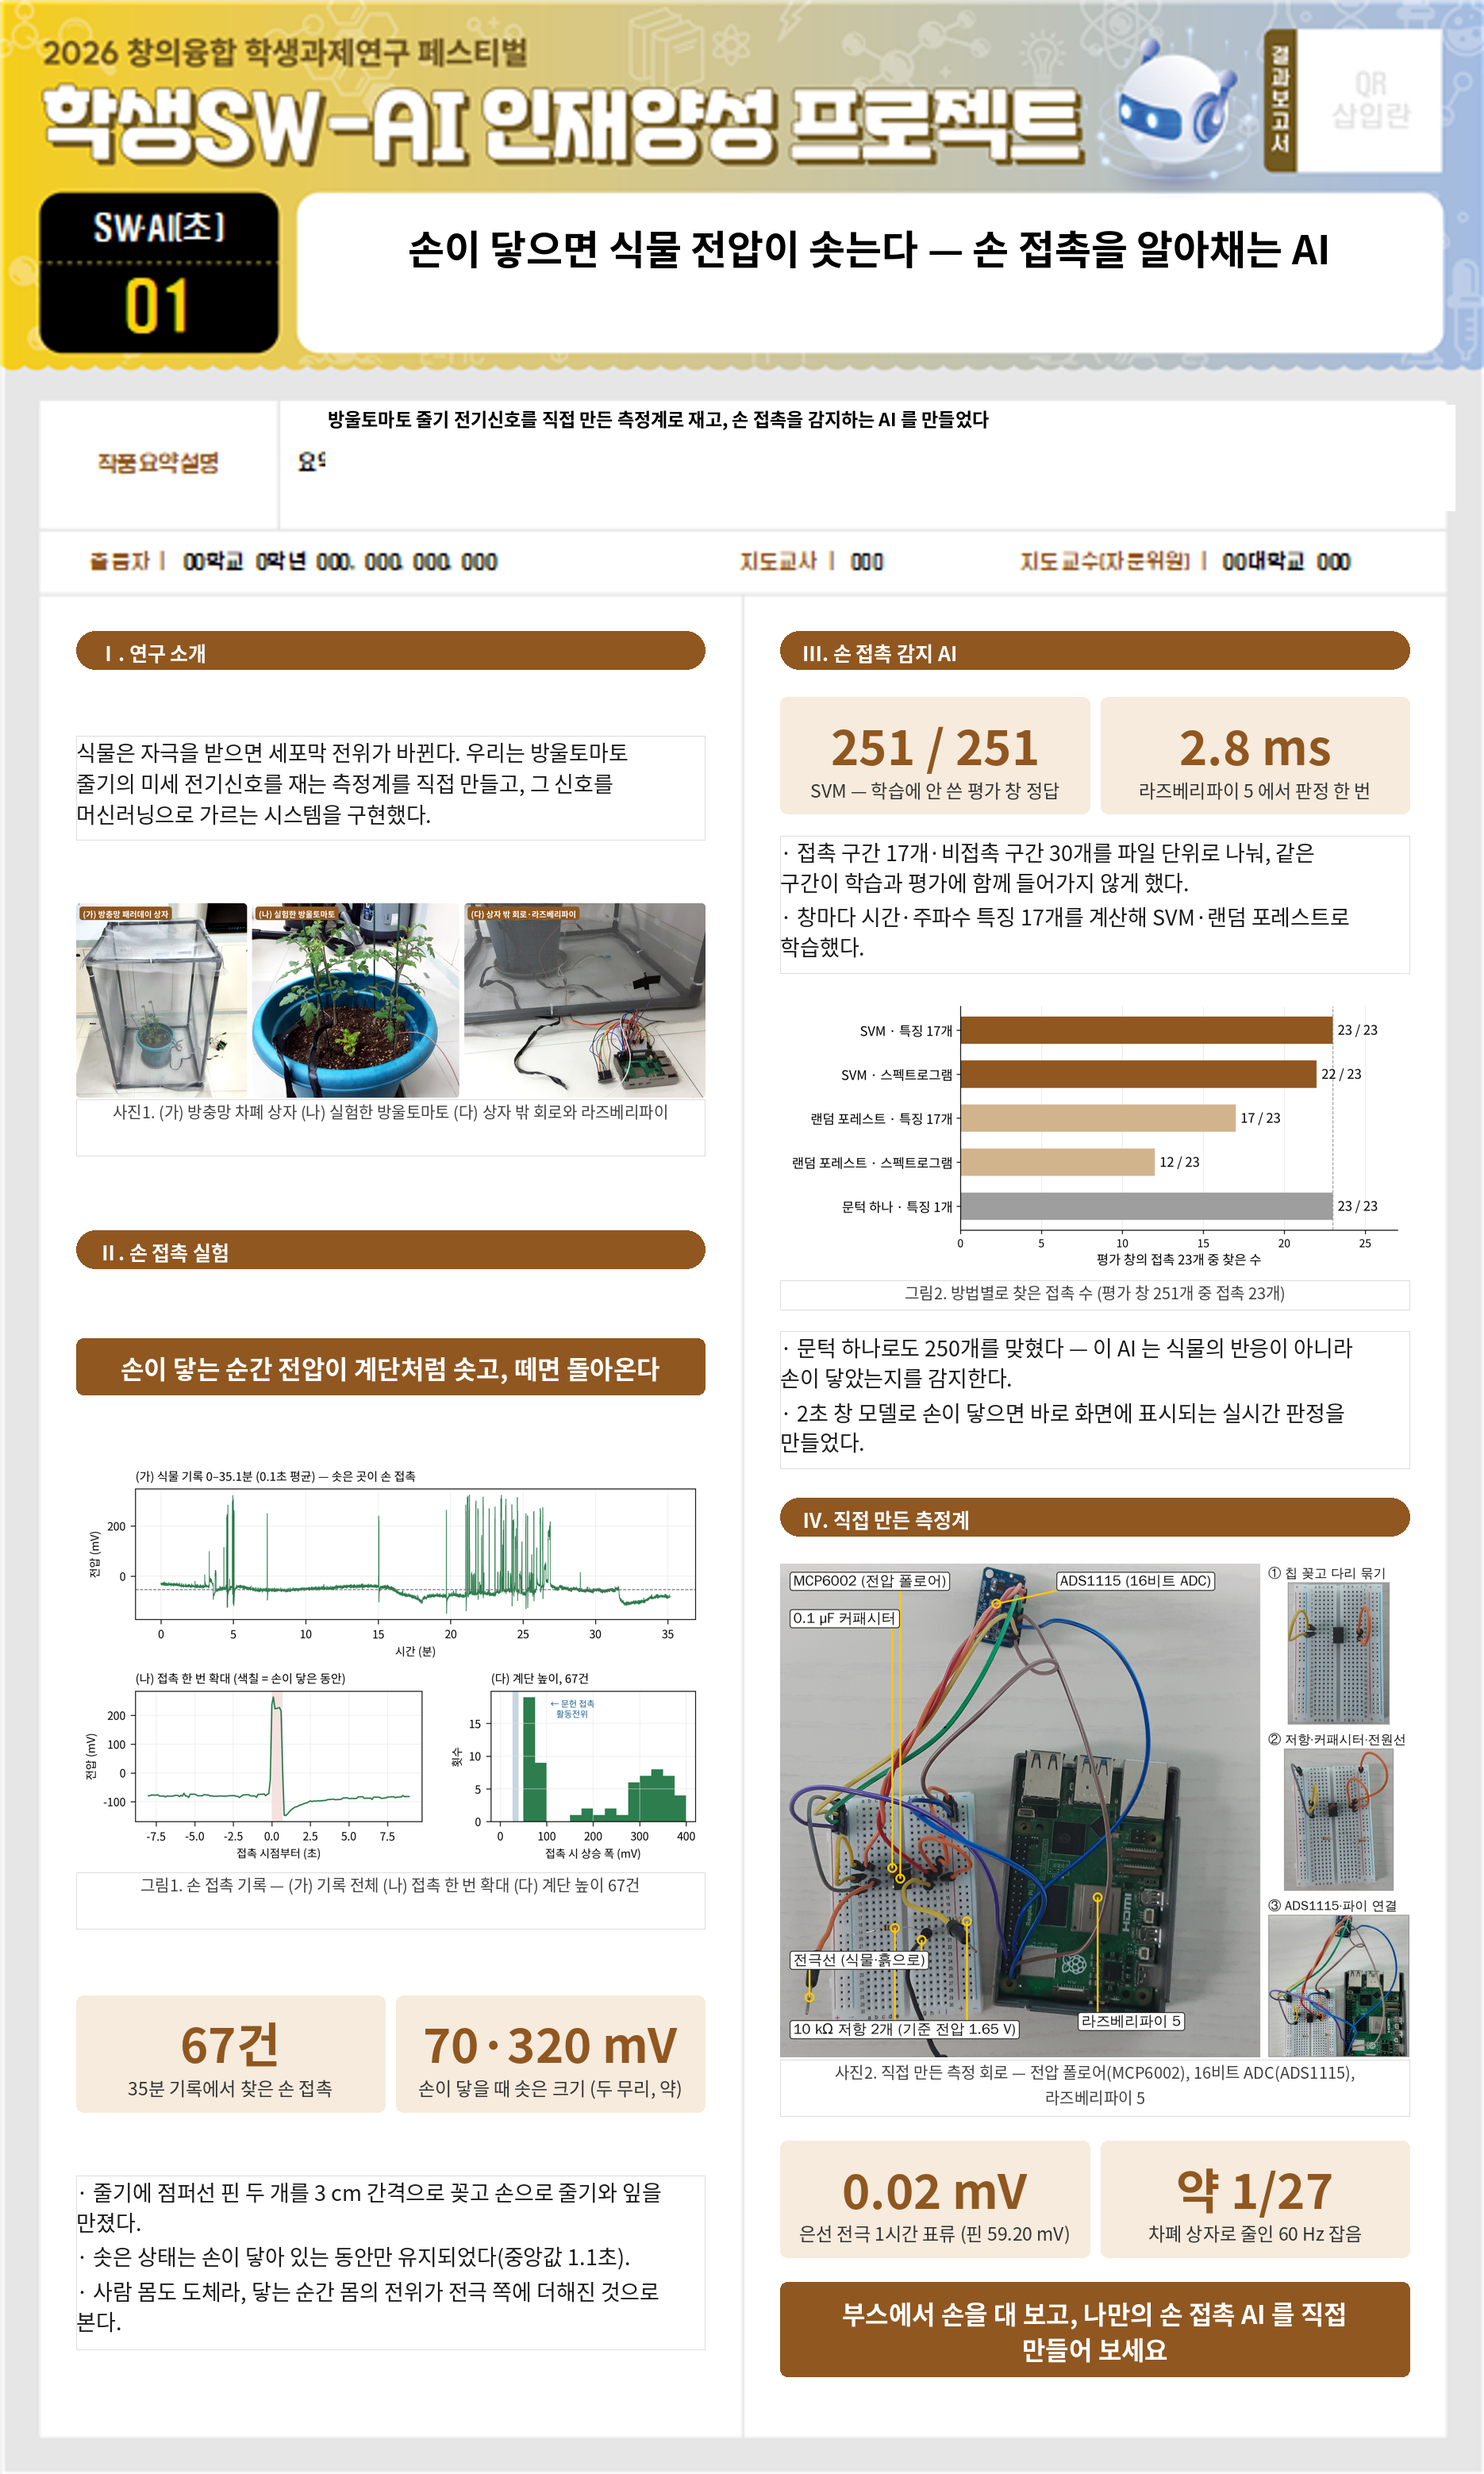
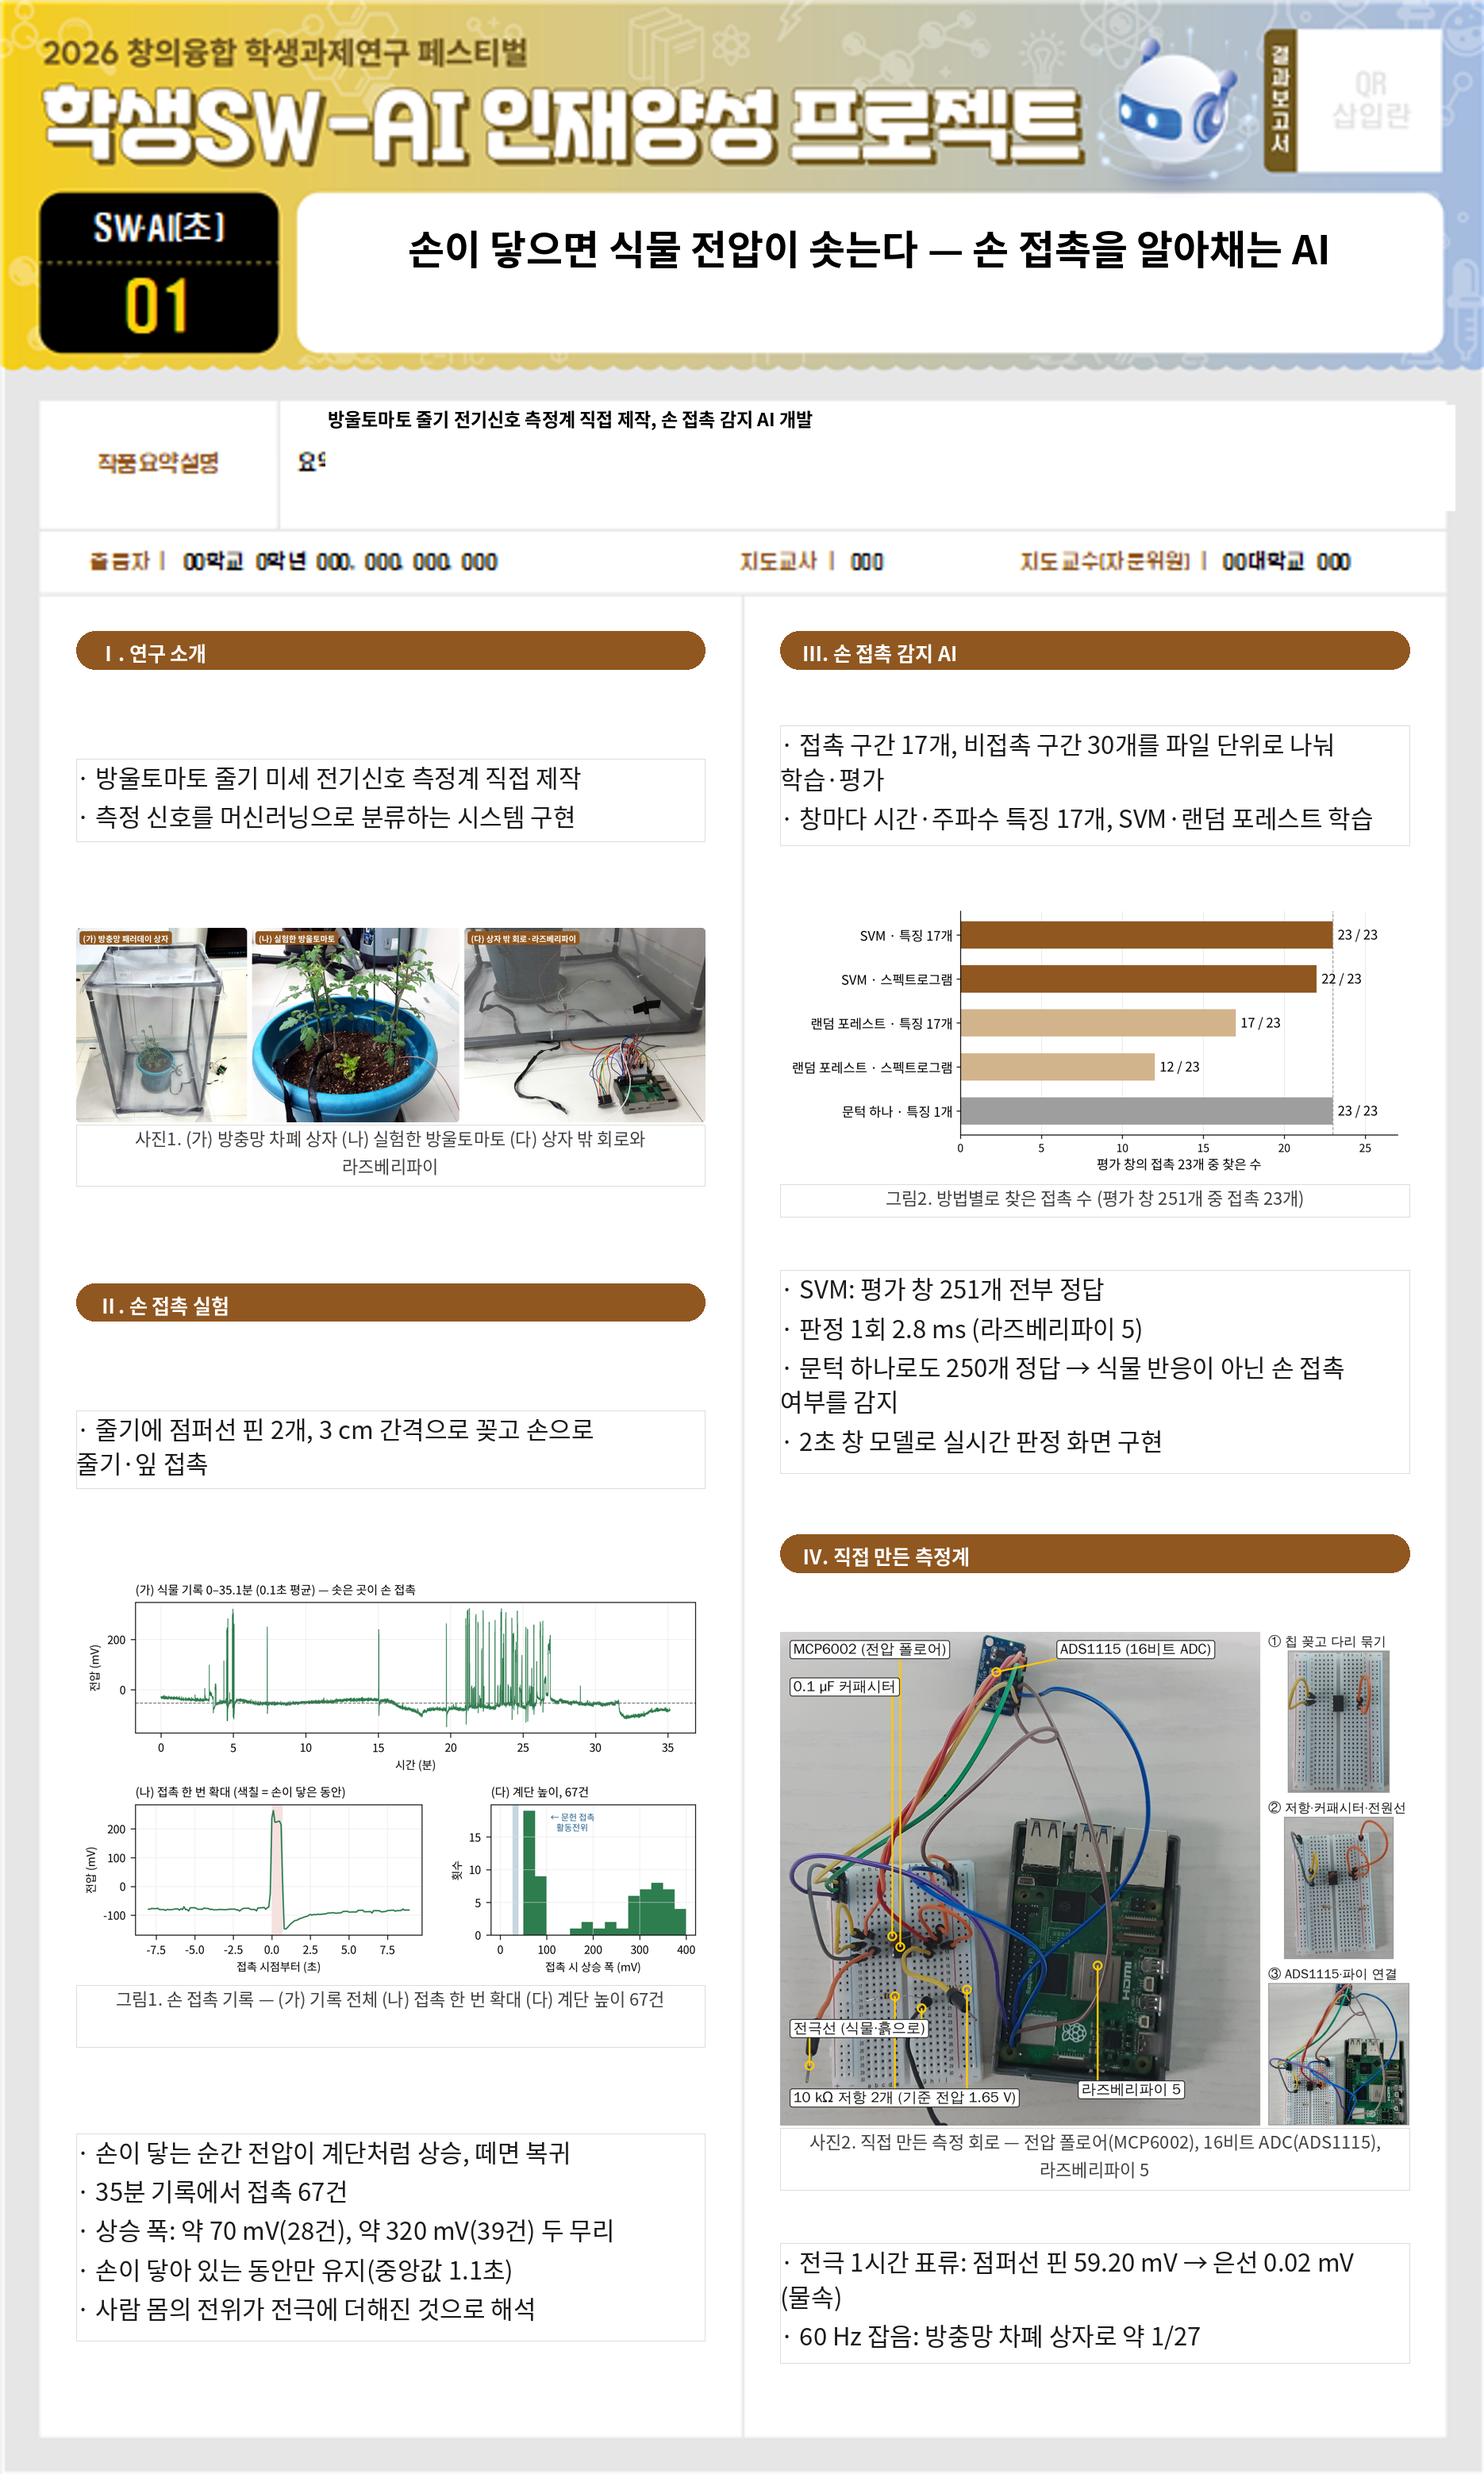
부스 포스터: 문장을 개조식으로, 숫자 상자·강조 상자 뺌(양식 절 머리띠만)
Claude-Session: https://claude.ai/code/session_01JhQkgfdzNkTpKPSBfVdw6o

diff --git a/report/booth_poster_build.py b/report/booth_poster_build.py
@@ -12,8 +12,8 @@ pb.DST = os.path.join(pb.REP, "GML_부스포스터.hwpx")
 pb.PREVIEW = os.path.join(pb.REP, "GML_부스포스터_미리보기.png")
 
 pb.STYLES.update({
-    "body":  (2700, "#1A1A1A", 0, False),
-    "cap":   (2000, "#404040", 0, False),
+    "body":  (3100, "#1A1A1A", 0, False),
+    "cap":   (2200, "#404040", 0, False),
     "title": (5000, "#000000", 2, False),
     "sum":   (2300, "#1A1A1A", 2, False),
     "kbig":  (6000, "#905720", 2, False),
@@ -23,36 +23,35 @@ pb.STYLES.update({
 pb.PARA["body"] = (19, 145, 0, 600)
 
 pb.TITLE = "손이 닿으면 식물 전압이 솟는다 — 손 접촉을 알아채는 AI"
-pb.SUMMARY = "방울토마토 줄기 전기신호를 직접 만든 측정계로 재고, 손 접촉을 감지하는 AI 를 만들었다"
+pb.SUMMARY = "방울토마토 줄기 전기신호 측정계 직접 제작, 손 접촉 감지 AI 개발"
 
 pb.LEFT = [
     ("bar", "Ⅰ. 연구 소개"),
-    ("p", "식물은 자극을 받으면 세포막 전위가 바뀐다. 우리는 방울토마토 줄기의 미세 전기신호를 재는 측정계를 직접 만들고, "
-          "그 신호를 머신러닝으로 가르는 시스템을 구현했다."),
+    ("li", "· 방울토마토 줄기 미세 전기신호 측정계 직접 제작"),
+    ("li", "· 측정 신호를 머신러닝으로 분류하는 시스템 구현"),
     ("fig", "PHOTO_POSTER_CAGE.jpg", 1.0, "사진1. (가) 방충망 차폐 상자 (나) 실험한 방울토마토 (다) 상자 밖 회로와 라즈베리파이"),
     ("bar", "Ⅱ. 손 접촉 실험"),
-    ("call", "손이 닿는 순간 전압이 계단처럼 솟고, 떼면 돌아온다"),
+    ("li", "· 줄기에 점퍼선 핀 2개, 3 cm 간격으로 꽂고 손으로 줄기·잎 접촉"),
     ("fig", "FIG_TOUCH.png", 1.0, "그림1. 손 접촉 기록 — (가) 기록 전체 (나) 접촉 한 번 확대 (다) 계단 높이 67건"),
-    ("keys", [("67건", "35분 기록에서 찾은 손 접촉"),
-              ("70·320 mV", "손이 닿을 때 솟은 크기 (두 무리, 약)")]),
-    ("li", "· 줄기에 점퍼선 핀 두 개를 3 cm 간격으로 꽂고 손으로 줄기와 잎을 만졌다."),
-    ("li", "· 솟은 상태는 손이 닿아 있는 동안만 유지되었다(중앙값 1.1초)."),
-    ("li", "· 사람 몸도 도체라, 닿는 순간 몸의 전위가 전극 쪽에 더해진 것으로 본다."),
+    ("li", "· 손이 닿는 순간 전압이 계단처럼 상승, 떼면 복귀"),
+    ("li", "· 35분 기록에서 접촉 67건"),
+    ("li", "· 상승 폭: 약 70 mV(28건), 약 320 mV(39건) 두 무리"),
+    ("li", "· 손이 닿아 있는 동안만 유지(중앙값 1.1초)"),
+    ("li", "· 사람 몸의 전위가 전극에 더해진 것으로 해석"),
 ]
 pb.RIGHT = [
     ("bar", "Ⅲ. 손 접촉 감지 AI"),
-    ("keys", [("251 / 251", "SVM — 학습에 안 쓴 평가 창 정답"),
-              ("2.8 ms", "라즈베리파이 5 에서 판정 한 번")]),
-    ("li", "· 접촉 구간 17개·비접촉 구간 30개를 파일 단위로 나눠, 같은 구간이 학습과 평가에 함께 들어가지 않게 했다."),
-    ("li", "· 창마다 시간·주파수 특징 17개를 계산해 SVM·랜덤 포레스트로 학습했다."),
+    ("li", "· 접촉 구간 17개, 비접촉 구간 30개를 파일 단위로 나눠 학습·평가"),
+    ("li", "· 창마다 시간·주파수 특징 17개, SVM·랜덤 포레스트 학습"),
     ("fig", "FIG_BOOTH_CLF.png", 1.0, "그림2. 방법별로 찾은 접촉 수 (평가 창 251개 중 접촉 23개)"),
-    ("li", "· 문턱 하나로도 250개를 맞혔다 — 이 AI 는 식물의 반응이 아니라 손이 닿았는지를 감지한다."),
-    ("li", "· 2초 창 모델로 손이 닿으면 바로 화면에 표시되는 실시간 판정을 만들었다."),
+    ("li", "· SVM: 평가 창 251개 전부 정답"),
+    ("li", "· 판정 1회 2.8 ms (라즈베리파이 5)"),
+    ("li", "· 문턱 하나로도 250개 정답 → 식물 반응이 아닌 손 접촉 여부를 감지"),
+    ("li", "· 2초 창 모델로 실시간 판정 화면 구현"),
     ("bar", "Ⅳ. 직접 만든 측정계"),
     ("fig", "PHOTO4_WIRING.png", 1.0, "사진2. 직접 만든 측정 회로 — 전압 폴로어(MCP6002), 16비트 ADC(ADS1115), 라즈베리파이 5"),
-    ("keys", [("0.02 mV", "은선 전극 1시간 표류 (핀 59.20 mV)"),
-              ("약 1/27", "차폐 상자로 줄인 60 Hz 잡음")]),
-    ("call", "부스에서 손을 대 보고, 나만의 손 접촉 AI 를 직접 만들어 보세요"),
+    ("li", "· 전극 1시간 표류: 점퍼선 핀 59.20 mV → 은선 0.02 mV (물속)"),
+    ("li", "· 60 Hz 잡음: 방충망 차폐 상자로 약 1/27"),
 ]
 
 _base = pb.layout
@@ -60,7 +59,7 @@ def _spread(blocks, col):
     """남는 높이를 절 사이와 블록 사이에 고르게 나눠 단을 채운다."""
     out, y = _base(blocks, col)
     room = pb.COL_BOT - pb.PAD - y
-    glue = [i > 0 and ((out[i - 1][0] == "pic" and o[0] == "text") or out[i - 1][2] == o[2]) for i, o in enumerate(out)]
+    glue = [i > 0 and out[i - 1][0] == "pic" and o[0] == "text" for i, o in enumerate(out)]
     gaps = sum(1 for i in range(1, len(out)) if not glue[i])
     if room <= 0 or gaps == 0:
         return out, y
